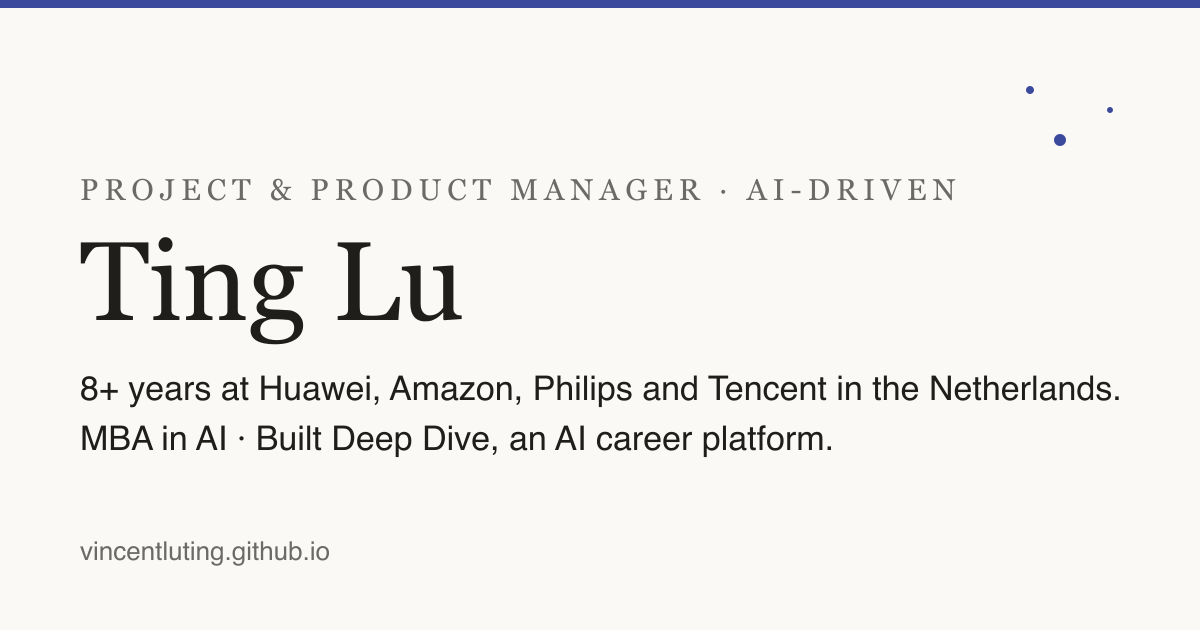
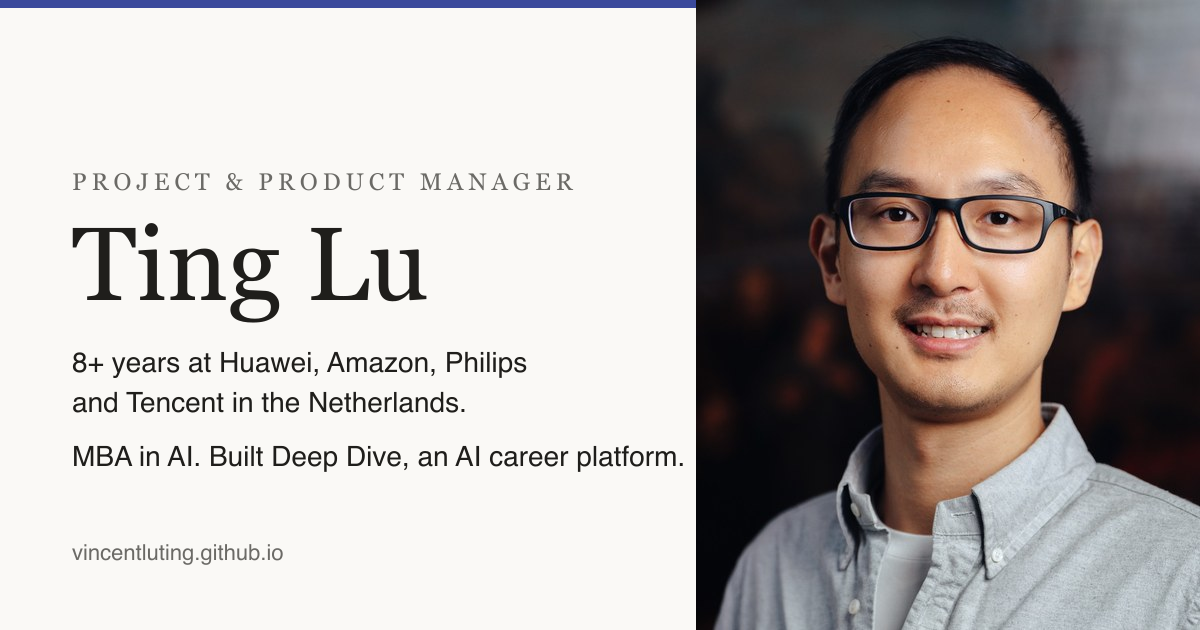
Add real portrait and rewrite site copy in a plainer first-person voice
- Crop the professional photo to 4:5 and use it in the hero, About page
  and the default OG share image
- Rewrite headlines, intros, the About story and project descriptions so
  they read like Vincent talking, not marketing lines: "Hi, I'm Vincent",
  plain sentences, no slogans

diff --git a/src/data/projects.ts b/src/data/projects.ts
@@ -7,7 +7,7 @@ export const projects: Project[] = [
     kicker: 'AI career assessment platform · MBA thesis',
     period: '2025 – 2026',
     summary:
-      'A career exploration platform that combines a 147-question psychometric assessment, 30 original career archetypes and AI-guided coaching. Designed, built and shipped end to end.',
+      'My MBA thesis project, and now a live product. A career assessment with 147 questions and 30 career archetypes I designed myself, plus an AI coach that gives advice based on your own results. I built the whole thing, from the questionnaire to the code.',
     featured: true,
     metrics: [
       { value: '147', label: 'assessment questions' },
@@ -21,16 +21,16 @@ export const projects: Project[] = [
     ],
     caseStudy: {
       problem:
-        'Most career tests hand people a four-letter label and stop. Internationals in particular need something that understands cross-cultural identity, not just personality, and then actually helps them decide what to do next.',
+        'I have taken a lot of career tests myself. Most of them give you a label and stop there. As someone who moved from China to the Netherlands, I also noticed they never ask about the cross-cultural side of who you are, which for me was the biggest factor in every career decision. I wanted to build something that goes further and helps you decide what to do next.',
       approach: [
         'Designed a multi-dimensional assessment framework (147 questions) covering personality, vocational interests, cognitive style and cross-cultural identity.',
         'Synthesised established instruments (Holland RIASEC, Big Five, Career Anchors, CliftonStrengths, MBTI Step II, DISC, HBDI) with original research into 30 bilingual career archetypes.',
         'Built a 5-layer scoring pipeline that turns raw responses into actionable career profiles, with quality guidelines for consistent scoring.',
-        'Added an AI coaching layer grounded in each person’s own assessment results rather than generic advice.',
+        'Added an AI coach that works from each person’s own results instead of giving generic advice.',
       ],
       outcome: [
         'Live, full-stack product at deepdivecareer.com built with Next.js, TypeScript and PostgreSQL (76,000+ lines of code).',
-        'Serves as the MBA thesis for the University of Amsterdam MBA in AI, Data & Analytics.',
+        'It is also my thesis for the MBA in AI, Data & Analytics at the University of Amsterdam.',
         'Bilingual (English and Chinese) from day one.',
       ],
     },
@@ -41,7 +41,7 @@ export const projects: Project[] = [
     kicker: 'Tencent · PUBG Mobile Esports',
     period: '2025 – 2026',
     summary:
-      'Replaced a manual weekly reporting routine with an AI-assisted workflow, freeing about 3 hours a week and feeding cleaner insight from 12,000+ survey responses to the Esports Data Center team.',
+      'Every week someone had to process the viewer survey by hand. I set up an AI-assisted workflow that does most of it, which saved about 3 hours a week and gave the Esports Data Center team cleaner insight from more than 12,000 responses.',
     stack: ['n8n', 'Claude', 'Survey data', 'Dashboards'],
   },
   {
@@ -50,7 +50,7 @@ export const projects: Project[] = [
     kicker: 'Philips · Product Owner',
     period: '2021 – 2023',
     summary:
-      'Four marketing dashboards and three new AMC platform features built with Amazon Ads and AWS, lifting campaign activation productivity by 15% and campaign performance by 10%.',
+      'Four marketing dashboards and three new platform features, built together with engineers, Amazon Ads and AWS. Campaign activation became 15% faster and campaign performance went up by about 10%.',
     stack: ['Amazon Marketing Cloud', 'AWS', 'SQL', 'Agile delivery'],
   },
   {
@@ -59,7 +59,7 @@ export const projects: Project[] = [
     kicker: 'Team project',
     period: 'Nov 2025 – Feb 2026',
     summary:
-      'Researched leading AI products in depth and built AI-powered prototypes with a cross-functional team over a three-month hackathon.',
+      'Three months of studying the best AI products out there and building our own prototypes with a small team. A good reminder of how much you learn by making things.',
     stack: ['Product research', 'Prototyping', 'LLM tooling'],
   },
 ];

diff --git a/src/data/experience.ts b/src/data/experience.ts
@@ -9,7 +9,7 @@ export const experience: Experience[] = [
     start: 'May 2025',
     end: 'Jun 2026',
     summary:
-      'Kept regional esports marketing across Europe, MENA and Asia aligned with HQ strategy, and used AI to take the manual work out of reporting.',
+      'I coordinated esports marketing across Europe, the Middle East and Asia, and kept the regional plans in line with what headquarters wanted. I also used AI to cut down the manual reporting work.',
     bullets: [
       'Managed cross-regional coordination across Europe, MENA and Asia, keeping regional priorities aligned with HQ strategy.',
       'Built an AI-enabled workflow for viewer survey reporting, cutting manual processing by about 3 hours per week.',
@@ -28,7 +28,7 @@ export const experience: Experience[] = [
     start: 'Aug 2023',
     end: 'May 2025',
     summary:
-      'Owned the IT relationship with three game studios and served as EU Product Owner for security and foundation IT products.',
+      'I was the IT contact person for three game studios, and the EU product owner for our security and foundation IT products.',
     bullets: [
       'Managed customer relationships across three game studios, promoting tailored IT solutions that achieved $91,000 in annual cost savings.',
       'Led IT PMO initiatives across 3 regions (EMEA, Asia, US), improving operational efficiency and standardising how studios adopt new technologies.',
@@ -48,7 +48,7 @@ export const experience: Experience[] = [
     start: 'Nov 2021',
     end: 'Aug 2023',
     summary:
-      'Turned Amazon Marketing Cloud data into dashboards and features the media teams actually used.',
+      'I owned the dashboards the media teams used to plan and check their Amazon campaigns, built on Amazon Marketing Cloud data.',
     bullets: [
       'Designed and implemented 4 marketing dashboards with engineers, boosting campaign activation productivity by 15%.',
       'Delivered insights on audience segmentation and optimal ad frequency from Amazon Marketing Cloud data, contributing to a 10% uplift in campaign performance.',
@@ -67,7 +67,7 @@ export const experience: Experience[] = [
     start: 'Jul 2019',
     end: 'Nov 2021',
     summary:
-      'Helped launch Amazon.nl and automated the vendor operations behind it.',
+      'I helped launch Amazon.nl and automated a large part of the vendor operations behind it.',
     bullets: [
       'Led 2 cross-regional automation projects, achieving efficiency savings equivalent to 1.8 full-time headcounts.',
       'Facilitated the launch of Amazon’s Dutch marketplace by developing 2 new web tools and SOPs to optimise product selection and defect elimination.',
@@ -87,7 +87,7 @@ export const experience: Experience[] = [
     start: 'Feb 2018',
     end: 'Jun 2019',
     summary:
-      'Controlled a $30M+ European marketing budget and built the tooling to forecast it properly.',
+      'I managed the European marketing budget of more than $30M and built a tool that made forecasting it much more accurate.',
     bullets: [
       'Coordinated marketing and retail campaigns with budgets exceeding $30M across cross-functional teams.',
       'Increased budget forecasting accuracy from 82% to 96% by developing an automation tool for campaign ROI analysis.',
@@ -103,7 +103,7 @@ export const experience: Experience[] = [
     location: 'Amsterdam',
     start: 'Jun 2017',
     end: 'Nov 2017',
-    summary: 'PR and business development for a Chinese company expanding into Europe.',
+    summary: 'My first job in the Netherlands: PR and business development for a Chinese company expanding into Europe.',
     bullets: [
       'Coordinated PR and business development for a Chinese company expanding overseas, raising brand awareness and identifying 5 new business opportunities across Europe.',
     ],

diff --git a/src/data/about.ts b/src/data/about.ts
@@ -1,9 +1,10 @@
 export const about = {
   intro: [
-    'I moved from Beijing to the Netherlands in 2015 to study Dutch linguistics at Leiden, and stayed. Nine years later I have worked inside four very different companies here, Huawei, Amazon, Philips and Tencent, and the thread through all of them is the same: sit between headquarters and the local team, understand what each side actually needs, and make the decision land.',
-    'Most of my work has been project and product management: aligning EMEA, Asia and US roadmaps, running IT PMO initiatives, owning dashboards and the data behind them, and building automation when a process was wasting people’s time. I like numbers because they end arguments, and I like people because they start the interesting ones.',
-    'In 2024 I went back to school for an MBA in AI, Data & Analytics at the University of Amsterdam. For the thesis I built Deep Dive, an AI career assessment platform, from the psychometric framework to the production code. It taught me more about product than any course could.',
-    'Outside work I coach a few people on their careers. Having had mentors who believed in me, it feels right to pay it forward. If you are working out your next step, or you are hiring for a role where someone has to hold the middle ground between strategy and delivery, I would love to talk.',
+    'I grew up in China and came to the Netherlands in 2015 to do a master’s in Dutch linguistics at Leiden. The plan was to stay for two years. It has now been nine, and Utrecht is home.',
+    'Since then I have worked at Huawei, Amazon, Philips and Tencent, mostly as a project or product manager. The companies were very different, but my role was always similar: I sat between headquarters and the local team, tried to understand what each side really needed, and made sure decisions were carried out in a way that worked for both. Being Chinese, speaking Dutch and working in English every day helped a lot with that.',
+    'I like building things that make work easier. Dashboards, small automations, better processes. At Amazon and Philips that was mostly data and reporting tools. At Tencent it became IT products and, more recently, AI workflows.',
+    'In 2024 I started an MBA in AI, Data and Analytics at the University of Amsterdam. For my thesis I built Deep Dive, a career assessment platform, from the questionnaire and the scoring model to the code. It is the hardest and most rewarding thing I have done so far, and it is live at deepdivecareer.com.',
+    'Outside work I coach a few people on their careers. I had mentors who believed in me when I was starting out here, and this is my way of giving something back. If you are figuring out your next step, or if you are hiring for a role where someone needs to connect different teams and cultures, feel free to get in touch. I would be happy to talk.',
   ],
   hobbies: [
     'Hiking',

diff --git a/src/data/site.ts b/src/data/site.ts
@@ -4,10 +4,10 @@ export const site = {
   /** Used in the <title> and JSON-LD */
   fullName: 'Ting (Vincent) Lu',
   role: 'Project & Product Manager',
-  tagline: 'Project & Product Manager · AI-driven',
-  headline: 'I turn HQ strategy into local delivery, and data into decisions.',
+  tagline: 'Project & Product Manager',
+  headline: 'I sit between headquarters and local teams, and make sure things get done.',
   lead:
-    'Eight years in the Netherlands at Huawei, Amazon, Philips and Tencent, coordinating stakeholders across Europe and Asia, building dashboards and automation that save real hours, and most recently shipping an AI career platform end to end.',
+    'Hi, I’m Vincent. I have spent the last eight years in the Netherlands working at Huawei, Amazon, Philips and Tencent, mostly as a project or product manager. I coordinate people across Europe and Asia, build dashboards and small automations, and last year I built an AI career platform on my own, from the first question to the live product.',
   location: 'Utrecht, the Netherlands',
   /** One line about work authorisation. Leave empty to hide. */
   workAuthorization: '',
@@ -20,7 +20,7 @@ export const site = {
   cvPath: '/cv/Ting-Lu-CV.pdf',
   url: 'https://vincentluting.github.io',
   description:
-    'Ting (Vincent) Lu is a project and product manager in the Netherlands with 8+ years at Huawei, Amazon, Philips and Tencent, an MBA in AI from the University of Amsterdam, and a shipped AI career platform.',
+    'Ting (Vincent) Lu is a project and product manager in Utrecht, the Netherlands. Eight years at Huawei, Amazon, Philips and Tencent, an MBA in AI from the University of Amsterdam, and the builder of Deep Dive, an AI career assessment platform.',
   languages: [
     { name: 'English', level: 'Fluent' },
     { name: 'Mandarin', level: 'Native' },
